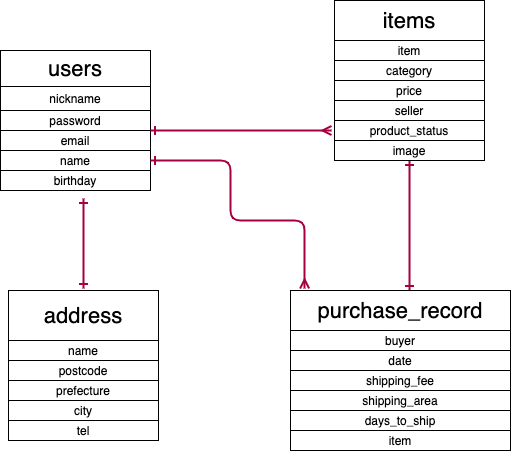
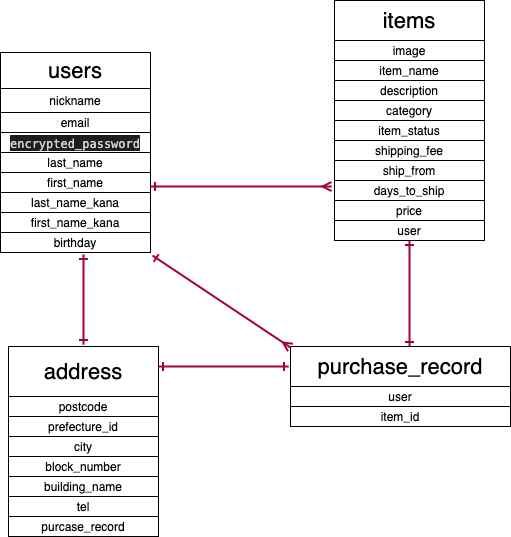
テーブル設計修正

diff --git a/README.md b/README.md
@@ -26,13 +26,16 @@ Things you may want to cover:
 # テーブル設計
 
 ## users テーブル
-| Column   | Type     | Options                   |
-| -------- | -------- | ------------------------- |
-| nickname | string   | null: false, unique: true |
-| email    | string   | null: false, unique: true |
-| password | string   | null: false               |
-| name     | string   | null: false, unique: true |
-| birthday | datetime | null: false               |
+| Column              | Type     | Options                   |
+| ------------------- | -------- | ------------------------- |
+| nickname            | string   | null: false               |
+| email               | string   | null: false, unique: true |
+| encrypted_password  | string   | null: false               |
+| last_name           | string   | null: false               |
+| first_name          | string   | null: false               |
+| last_name_kana      | string   | null: false               |
+| first_name_kana     | string   | null: false               |
+| birthday            | date     | null: false               |
 
 ### Association
 
@@ -41,44 +44,51 @@ Things you may want to cover:
 
 ## items テーブル
 
-| Column         | Type   | Options     |
-| -------------- | ------ | ----------- |
-| item           | string | null: false |
-| category       | string | null: false |
-| price          | integer| null: false |
-| seller         | string | null: false |
-| product_status | string | null: false |
-| image          | string | null: false |
+| Column         | Type      | Options                          |
+| -------------- | --------- | -------------------------------- |
+| image          | string    | null: false                      |
+| item_name      | string    | null: false                      |
+| description    | text      | null; false                      |
+| category_id    | integer   | null: false                      |
+| item_status    | integer   | null: false                      |
+| shipping_fee   | integer   | null: false                      |
+| ship_from      | integer   | null: false                      |
+| days_to_ship   | integer   | null: false                      |
+| price          | integer   | null: false                      |
+| user           | references| null: false, foreign_key: true   |
+
 
 ### Association
 
-- belongs_to :users
+- belongs_to :user
+- has_one :purchase_record
 
 ## purchase_record テーブル
 
-| Column        | Type     | Options                        |
-|---------------|----------|--------------------------------|
-| buyer         | string   | null: false                    |
-| shipping_area | string   | null: false                    |
-| shipping_fee  | integer  | null: false                    |
-| days_to_ship  | integer  | null: false                    |
-| date          | datetime | null: false                    |
-| item          | references| null: false, foreign_key: true|
+| Column        | Type       | Options                        |
+|---------------|------------|--------------------------------|
+| item_id       | references | null: false, foreign_key: true |
+| user          | references | null: false, foreign_key: true |
 
 ### Association
 
--belongs_to :items
+-belongs_to :user
+-belongs_to :item
+-has_one :address
 
 ## address テーブル
 
-| Column     | Type       | Options                       |
-|------------|------------|-------------------------------|
-| name       | references | null: false, foreign_key: true|
-| postcode   | integer    | null: false                   |
-| prefecture | string     | null: false                   |
-| city       | string     | null: false                   |
-| tel        | integer    | null: false                   | 
+| Column          | Type       | Options                       |
+|-----------------|------------|-------------------------------|
+| postcode        | string     | null: false                   |
+| prefecture_id   | string     | null: false                   |
+| city            | string     | null: false                   |
+| block_number    | string     | null: false                   |
+| building_name   | string     | null: false                   |
+| tel             | string     | null: false                   | 
+| purchase_record | references | null: false, foreign_key: true|
 
 ### Association
 
-- belongs_to :users
+- belongs_to :user
+- belongs_to :purchase_record
